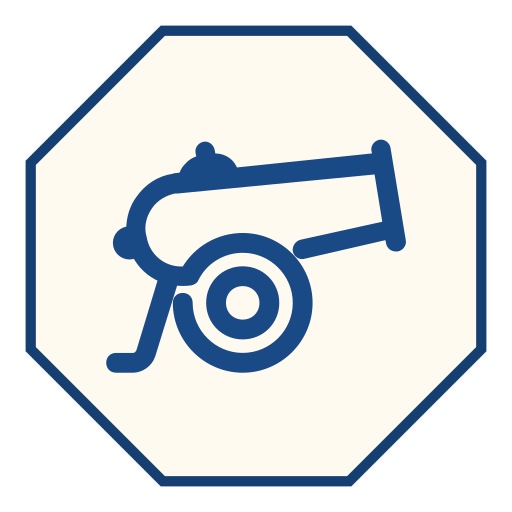
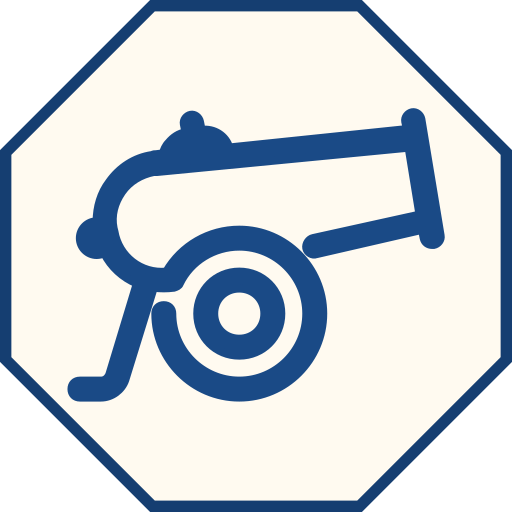
fix: normalize pictogram sizing and crop Janggi asset padding
Fit every westernized pictogram to the same longest edge while preserving proportions and margin. Crop SVG viewports to the octagon outline, then render matching 512x512 PNGs without outer transparent padding.

Verify uniform visible glyph dimensions, full-canvas octagon bounds, and SVG/PNG parity. Leave cursive and modern assets unchanged.

Changed region(s): [[0.0, 0.0, 1.0, 1.0]]

diff --git a/scripts/test-janggi-piece-assets.py b/scripts/test-janggi-piece-assets.py
@@ -50,7 +50,7 @@ class WesternizedPieceAssetsTest(unittest.TestCase):
                 with self.subTest(color=color, piece=name):
                     svg = STYLE / "svg" / f"{color}_{name}.svg"
                     root = ET.parse(svg).getroot()
-                    self.assertEqual(root.get("viewBox"), "0 0 100 100")
+                    self.assertEqual(root.get("viewBox"), "5 5 90 90")
                     self.assertIsNone(root.find(".//svg:image", NAMESPACE))
                     polygons = root.findall(".//svg:polygon", NAMESPACE)
                     self.assertEqual(len(polygons), 1)
@@ -61,6 +61,7 @@ class WesternizedPieceAssetsTest(unittest.TestCase):
                         vector = render(svg)
                         self.assertEqual(vector.size, png.size)
                         self.assertIsNone(ImageChops.difference(png, vector).getbbox())
+                        self.assertEqual(png.getchannel("A").getbbox(), (0, 0, 512, 512))
                         self.assertEqual(png.getpixel((10, 10))[3], 0)
                         self.assertEqual(png.getpixel((256, 41)), (255, 250, 240, 255))
                         self.assertEqual(png.getpixel((41, 256)), (255, 250, 240, 255))
@@ -74,13 +75,12 @@ class WesternizedPieceAssetsTest(unittest.TestCase):
                     left, top, right, bottom = mask.getbbox()
                     self.assertLess(abs((left + right) / 2 - 256), 3)
                     self.assertLess(abs((top + bottom) / 2 - 256), 3)
-                    self.assertGreater(max(right - left, bottom - top), 285)
-                    self.assertLess(max(right - left, bottom - top), 342)
+                    self.assertAlmostEqual(max(right - left, bottom - top), 377, delta=5)
                     self.assertGreater(right - left + bottom - top, 490)
                     for y in range(512):
                         for x in range(512):
                             if mask.getpixel((x, y)):
-                                self.assertLess(abs(x - 256) + abs(y - 256), 262)
+                                self.assertLess(abs(x - 256) + abs(y - 256), 334)
 
     def test_piece_names_keep_original_pictograms(self):
         for name in NAMES:
